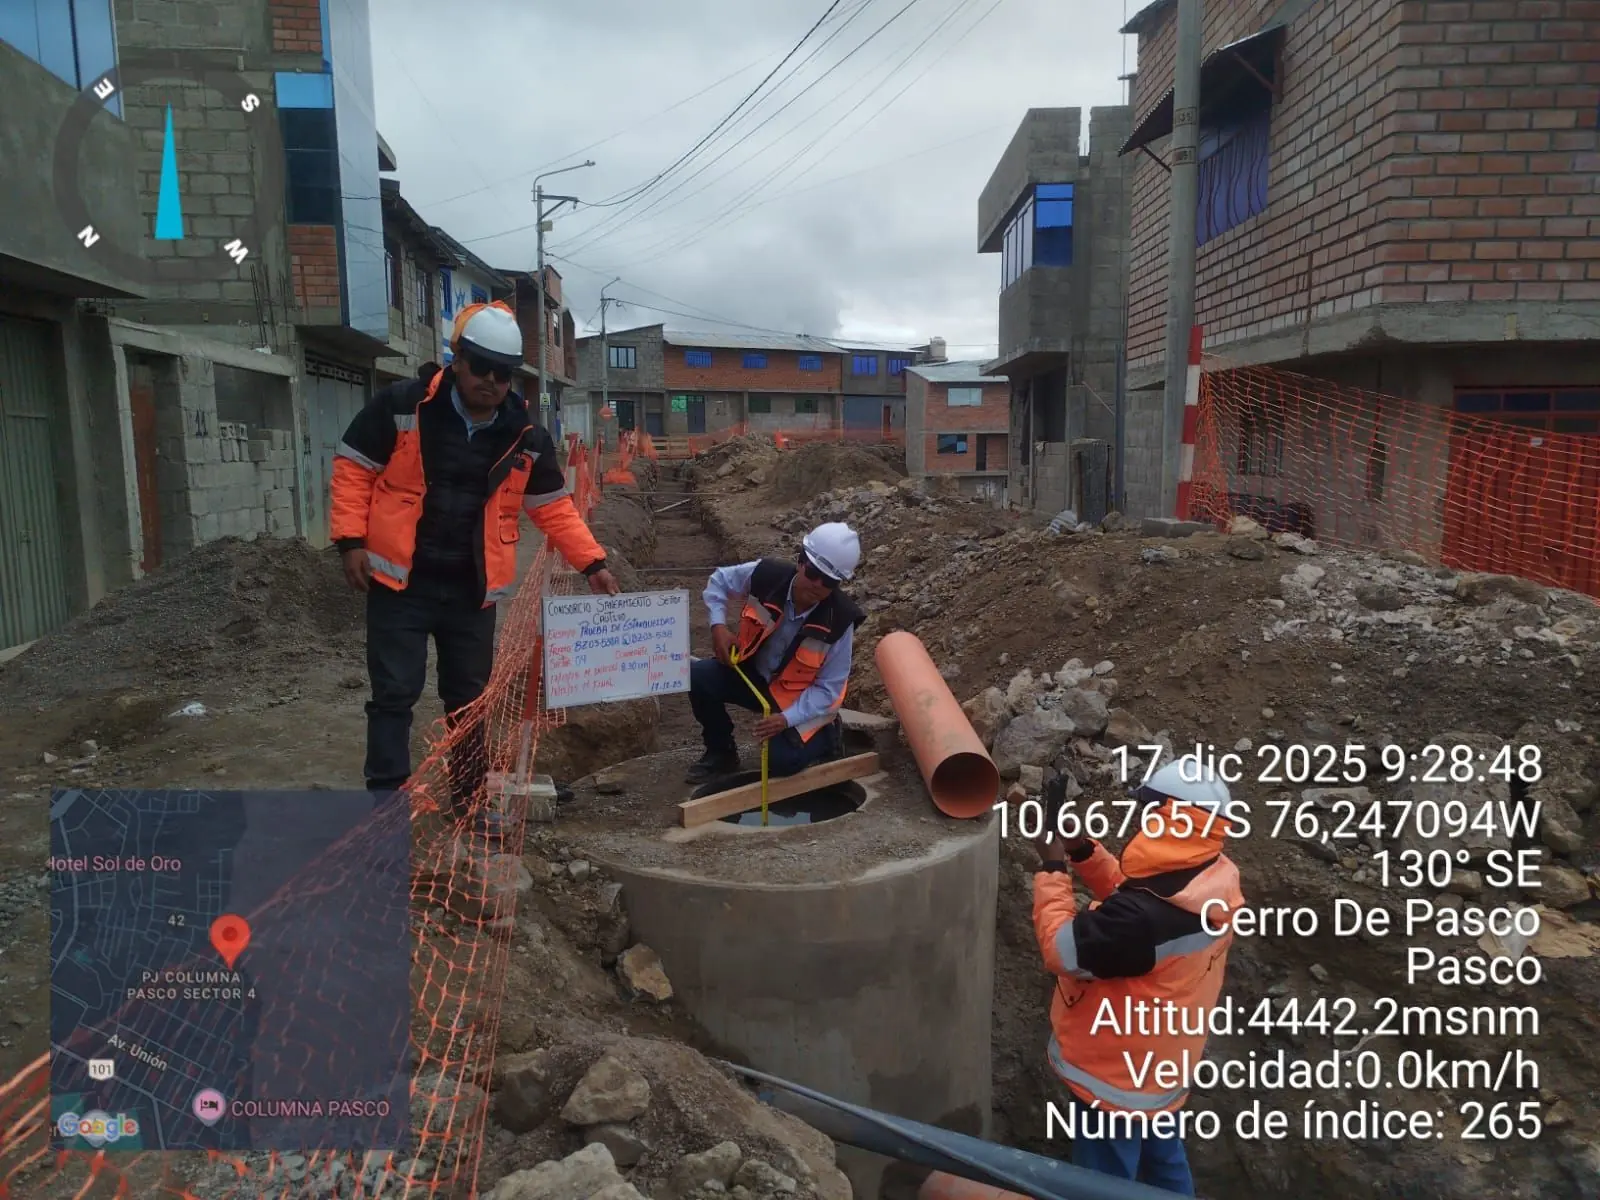
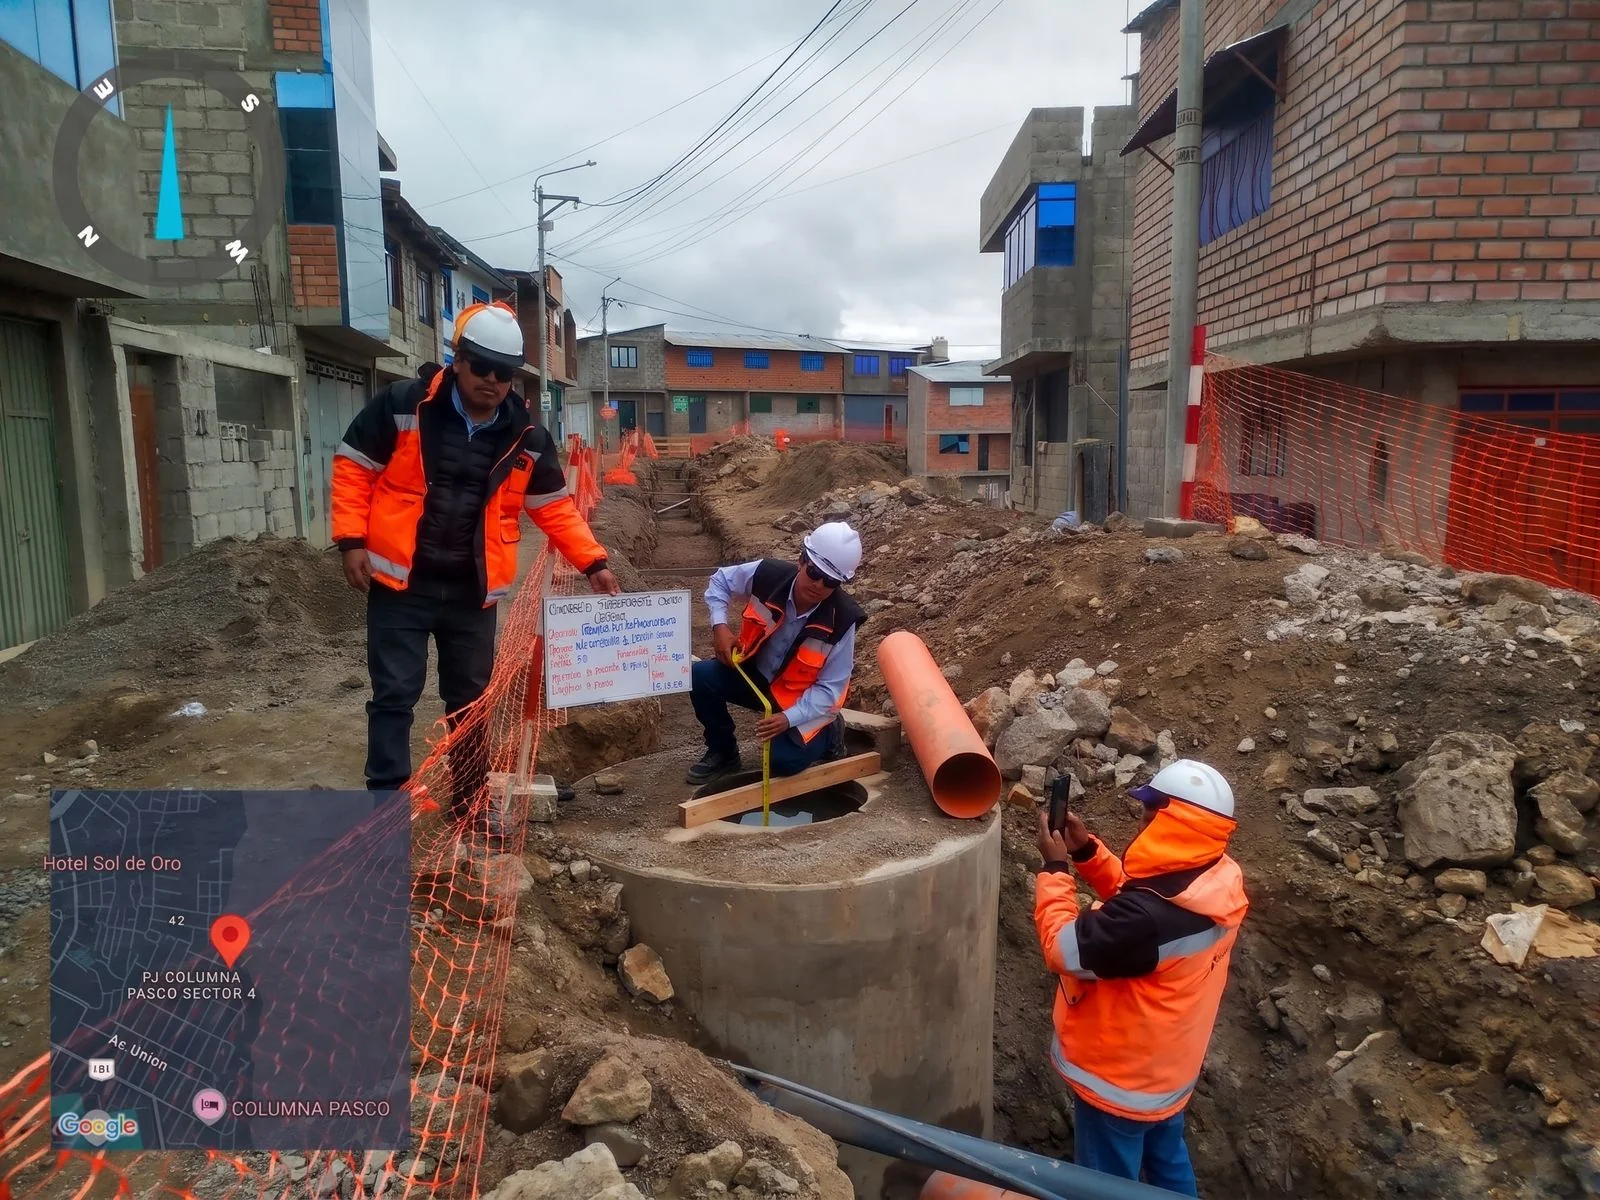
Pasco: foto 5 de la galería reemplazada por la nueva (webp)

diff --git a/src/lib/projects.ts b/src/lib/projects.ts
@@ -187,7 +187,7 @@ export const projects: Project[] = [
       { src: galeriaPasco02, thumb: thumbPasco02, alt: 'Personal de obra junto a una zanja abierta y una cámara de concreto en una calle de Cerro de Pasco' },
       { src: galeriaPasco03, thumb: thumbPasco03, alt: 'Personal del consorcio haciendo una prueba de estanqueidad en una cámara de concreto junto a una tubería' },
       { src: galeriaPasco04, thumb: thumbPasco04, alt: 'Personal del consorcio midiendo el nivel de agua en una cámara de concreto durante la prueba de estanqueidad' },
-      { src: galeriaPasco05, thumb: thumbPasco05, alt: 'Personal del consorcio junto a una cámara de concreto y una tubería naranja en una calle de Cerro de Pasco' },
+      { src: galeriaPasco05, thumb: thumbPasco05, alt: 'Tres trabajadores del consorcio junto a una cámara de concreto y una tubería naranja durante una medición en obra, en una calle de Cerro de Pasco' },
     ],
   },
 ]
